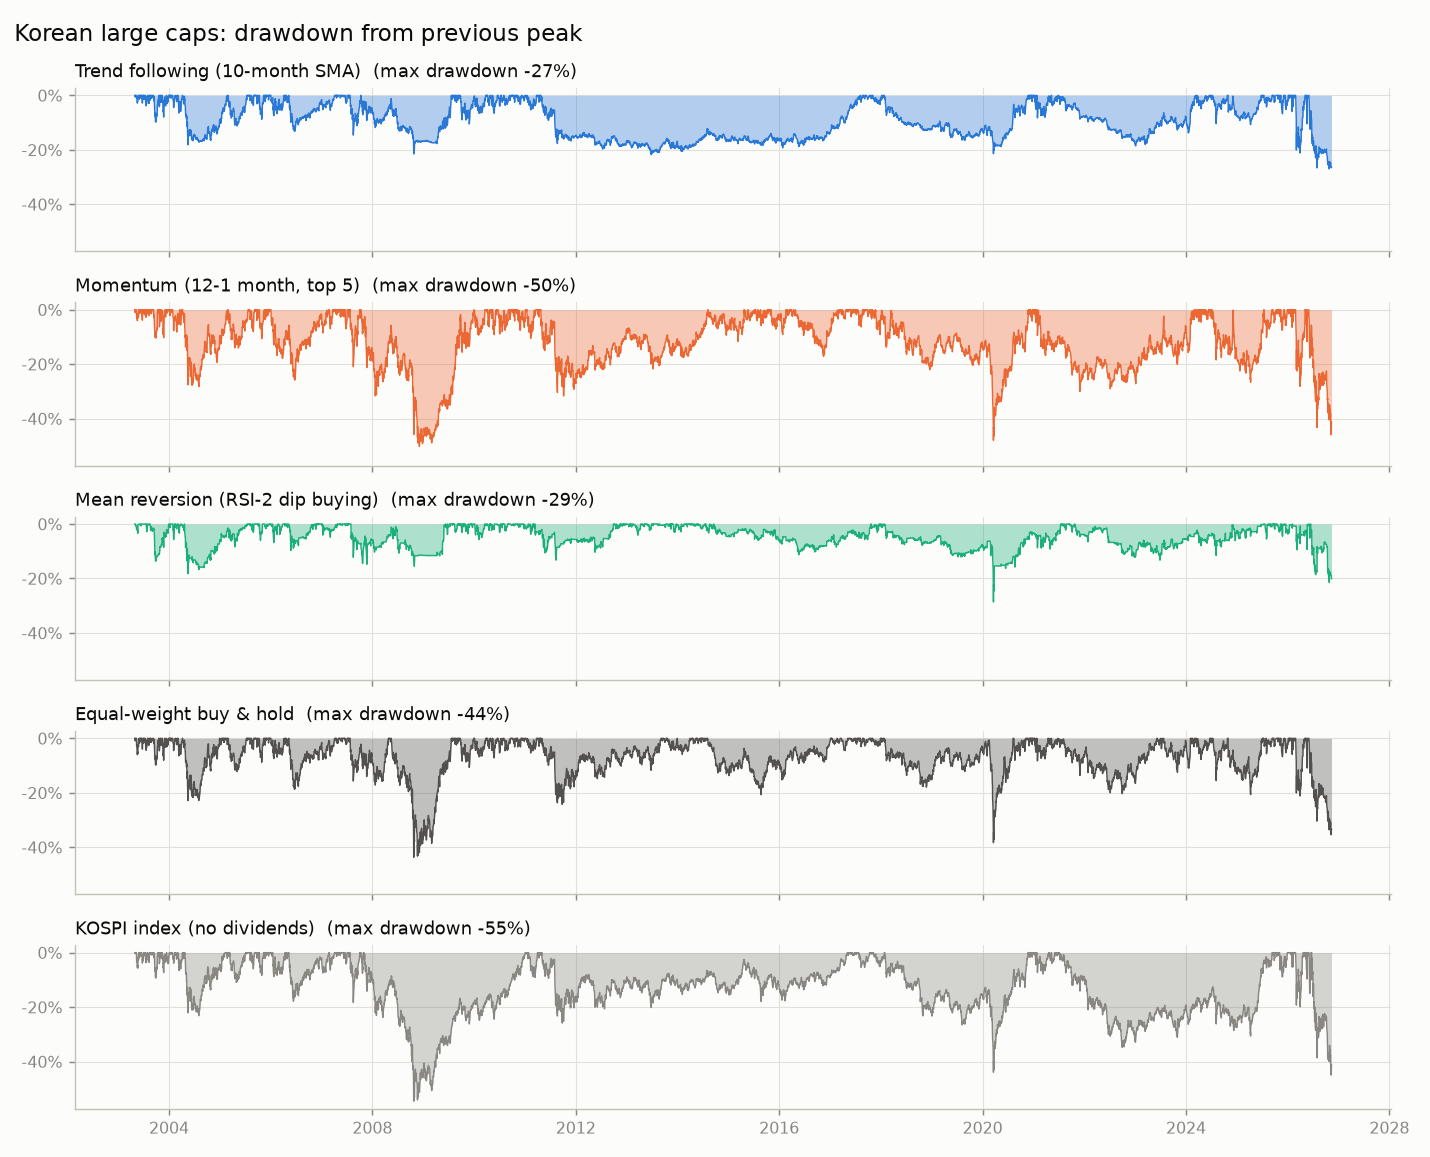
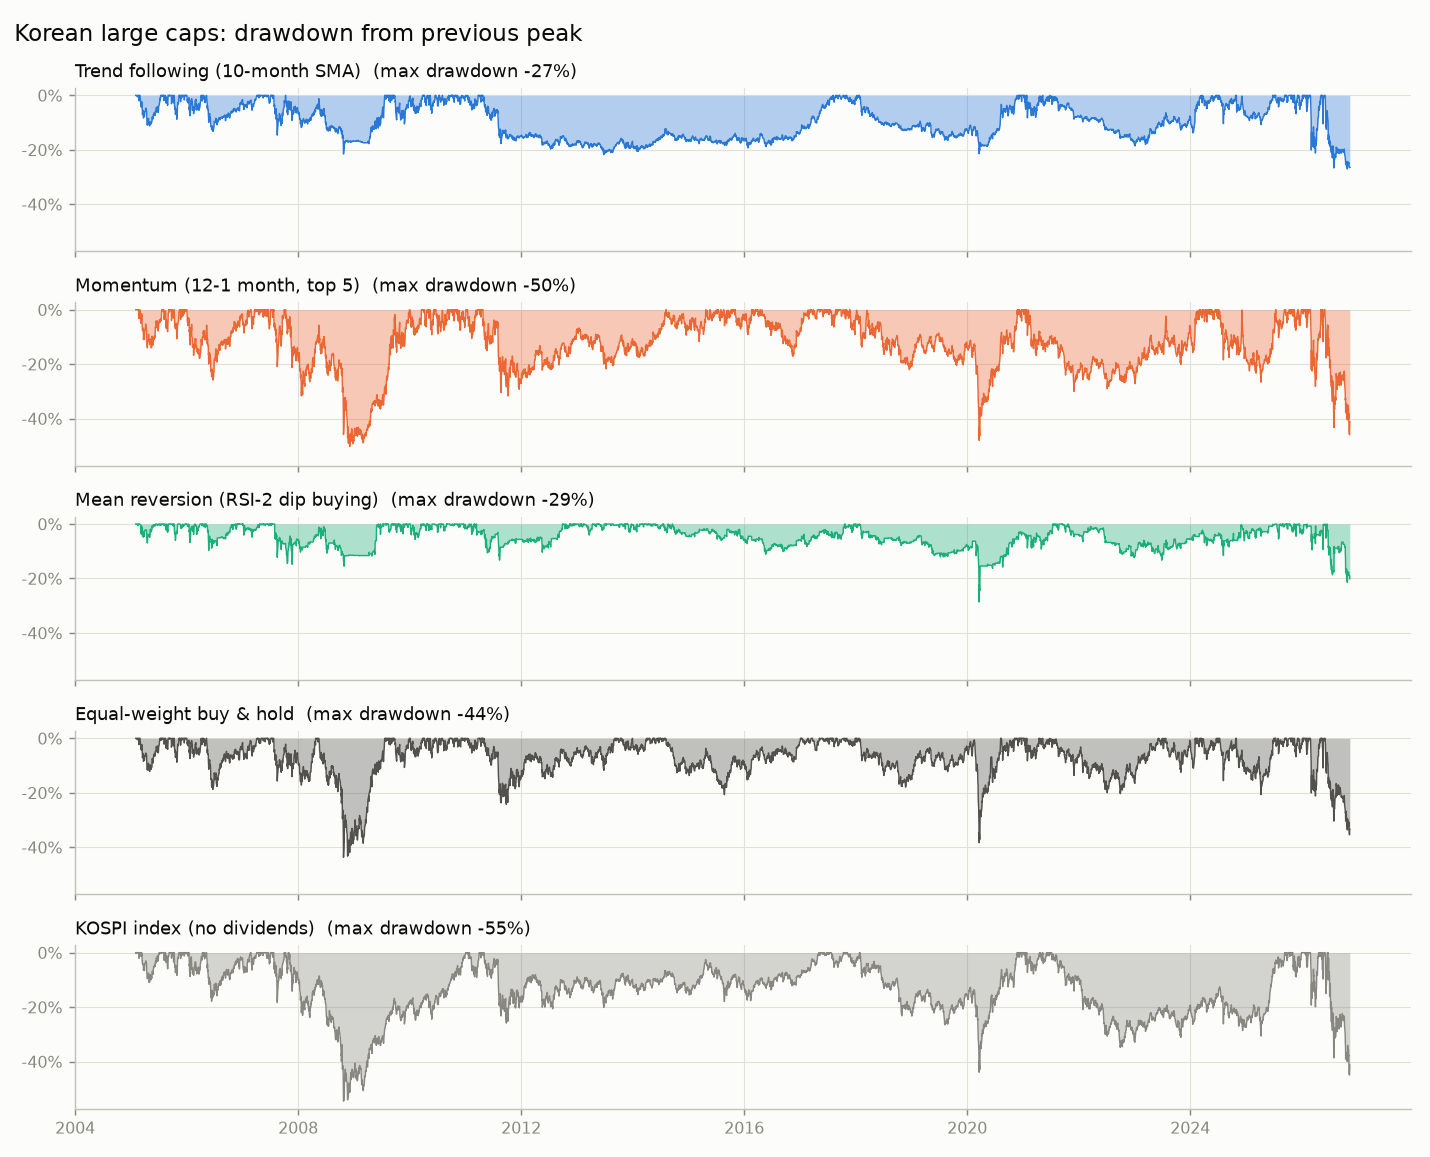
Update backtest results [skip ci]

diff --git a/results/kr_largecap/report.md b/results/kr_largecap/report.md
@@ -1,6 +1,6 @@
 # 백테스트 결과: 한국 대형주 15종 (KOSPI)
 
-- 평가 기간: 2003-05-01 ~ 2026-11-11 (23.5년)
+- 평가 기간: 2005-02-01 ~ 2026-11-11 (21.8년)
 - 대상 종목 15개: 005930.KS(삼성전자), 000660.KS(SK하이닉스), 005380.KS(현대차), 000270.KS(기아), 005490.KS(POSCO홀딩스), 051910.KS(LG화학), 006400.KS(삼성SDI), 012330.KS(현대모비스), 055550.KS(신한지주), 017670.KS(SK텔레콤), 033780.KS(KT&G), 015760.KS(한국전력), 066570.KS(LG전자), 000810.KS(삼성화재), 010130.KS(고려아연)
 - 거래 비용: 매수·매도 각각 15bp (0.15%)
 - 체결 가정: 종가로 신호 계산 → 다음 거래일 종가에 체결
@@ -9,22 +9,23 @@
 - **주의**: 이 15종목은 '오늘 기준으로 유명한 대형주'를 고른 것입니다. 과거에 컸다가 사라진 회사가 빠져 있으므로 모든 수익률이 실제보다 좋게 나옵니다(생존 편향). 전략끼리의 상대 비교용으로만 보세요.
 - **주의**: 비교용 KOSPI 지수에는 배당이 빠져 있어, 지수에 실제로 투자했을 때보다 수익률이 조금 낮게 표시됩니다.
 - **주의**: 거래 비용 15bp는 수수료와 매도 시 증권거래세를 매수·매도에 나눠 반영한 근사값입니다.
+- **주의**: 2004년 이전은 Yahoo의 SK하이닉스 수정주가에 0 이하 값이 섞여 있어 제외했습니다.
 
 ## 1. 요약
 
 | 지표 | 추세추종 | 모멘텀 | 평균회귀 | 동일비중 보유 | KOSPI 지수 (배당 제외) |
 |:---|---:|---:|---:|---:|---:|
-| 1원이 몇 원이 되었나 | 15.16원 | 56.88원 | 5.10원 | 42.44원 | 8.93원 |
-| 연평균 수익률 (CAGR) | 12.2% | 18.7% | 7.2% | 17.3% | 9.8% |
-| 연 변동성 | 14.7% | 28.1% | 12.9% | 21.7% | 22.5% |
-| 샤프 비율 | 0.87 | 0.76 | 0.61 | 0.85 | 0.53 |
+| 1원이 몇 원이 되었나 | 9.52원 | 30.83원 | 4.08원 | 21.98원 | 5.79원 |
+| 연평균 수익률 (CAGR) | 10.9% | 17.1% | 6.7% | 15.2% | 8.4% |
+| 연 변동성 | 14.3% | 28.0% | 12.6% | 21.5% | 22.5% |
+| 샤프 비율 | 0.81 | 0.71 | 0.58 | 0.78 | 0.48 |
 | 최대 낙폭 (MDD) | -27.0% | -50.2% | -28.6% | -43.7% | -54.5% |
-| CAGR ÷ MDD | 0.45 | 0.37 | 0.25 | 0.40 | 0.18 |
+| CAGR ÷ MDD | 0.40 | 0.34 | 0.23 | 0.35 | 0.15 |
 | 전고점 회복까지 최장 기간 | 6.2년 | 3.2년 | 3.6년 | 2.5년 | 5.9년 |
 | 최악의 해 수익률 | -12.2% | -38.9% | -10.5% | -27.3% | -40.7% |
-| 수익이 난 해의 비율 | 71% | 75% | 71% | 79% | 75% |
-| 평균 투자 비중 | 59% | 100% | 29% | 100% | 100% |
-| 연 회전율 (매수+매도) | 2.3배 | 5.1배 | 39.4배 | 0.7배 | 0.0배 |
+| 수익이 난 해의 비율 | 68% | 73% | 68% | 77% | 73% |
+| 평균 투자 비중 | 58% | 100% | 28% | 100% | 100% |
+| 연 회전율 (매수+매도) | 2.3배 | 4.9배 | 38.7배 | 0.7배 | 0.0배 |
 
 ![자산 곡선](equity.png)
 
@@ -34,9 +35,7 @@
 
 | 연도 | 추세추종 | 모멘텀 | 평균회귀 | 동일비중 보유 | KOSPI 지수 (배당 제외) |
 |:---|---:|---:|---:|---:|---:|
-| 2003 | 44.6% | 69.9% | 16.3% | 57.1% | 35.3% |
-| 2004 | 6.5% | 7.4% | 7.0% | 19.0% | 10.5% |
-| 2005 | 45.7% | 64.8% | 18.7% | 58.5% | 54.0% |
+| 2005 | 40.8% | 62.8% | 17.8% | 53.4% | 49.3% |
 | 2006 | 4.2% | 2.0% | 15.0% | 2.4% | 4.0% |
 | 2007 | 21.7% | 41.1% | 13.1% | 25.5% | 32.3% |
 | 2008 | -12.2% | -38.9% | -5.9% | -27.3% | -40.7% |
@@ -46,7 +45,7 @@
 | 2012 | -2.6% | 25.5% | 12.4% | 11.7% | 9.4% |
 | 2013 | 0.4% | -3.3% | 15.6% | 9.2% | 0.7% |
 | 2014 | -0.0% | 4.0% | 4.9% | -1.9% | -4.8% |
-| 2015 | 1.2% | 18.9% | -1.2% | 4.4% | 2.4% |
+| 2015 | 1.2% | 18.9% | -1.0% | 4.4% | 2.4% |
 | 2016 | 2.3% | -2.5% | -0.3% | 8.0% | 3.3% |
 | 2017 | 22.2% | 54.9% | 8.9% | 29.1% | 21.8% |
 | 2018 | -9.9% | -15.8% | -6.3% | -11.8% | -17.3% |
@@ -65,7 +64,7 @@
 
 | 기간 | 추세추종 | 모멘텀 | 평균회귀 | 동일비중 보유 | KOSPI 지수 (배당 제외) |
 |:---|---:|---:|---:|---:|---:|
-| 2003~2009 | 21.9% / -22% | 28.0% / -50% | 16.8% / -18% | 29.4% / -44% | 16.7% / -55% |
+| 2005~2009 | 19.1% / -22% | 23.4% / -50% | 17.9% / -15% | 24.1% / -44% | 13.0% / -55% |
 | 2010~2019 | 2.3% / -22% | 14.2% / -32% | 5.5% / -13% | 8.0% / -24% | 2.6% / -26% |
 | 2020~2026 | 18.6% / -27% | 17.2% / -46% | 0.9% / -24% | 20.3% / -38% | 14.0% / -45% |
 
@@ -73,12 +72,12 @@
 
 | 체결 시점, 비용 | 추세추종 | 모멘텀 | 평균회귀 |
 |:---|---:|---:|---:|
-| 다음 날 종가, 편도 0bp | 12.6% (0.90) | 19.6% (0.79) | 13.7% (1.07) |
-| 다음 날 종가, 편도 15bp | 12.2% (0.87) | 18.7% (0.76) | 7.2% (0.61) |
-| 다음 날 종가, 편도 45bp | 11.5% (0.83) | 16.9% (0.71) | -4.8% (-0.32) |
-| 당일 종가, 편도 0bp | 12.6% (0.89) | 18.6% (0.76) | 17.7% (1.32) |
-| 당일 종가, 편도 15bp | 12.2% (0.87) | 17.7% (0.73) | 11.0% (0.87) |
-| 당일 종가, 편도 45bp | 11.5% (0.82) | 15.9% (0.68) | -1.5% (-0.05) |
+| 다음 날 종가, 편도 0bp | 11.3% (0.83) | 17.9% (0.74) | 13.0% (1.05) |
+| 다음 날 종가, 편도 15bp | 10.9% (0.81) | 17.1% (0.71) | 6.7% (0.58) |
+| 다음 날 종가, 편도 45bp | 10.1% (0.76) | 15.3% (0.66) | -5.0% (-0.35) |
+| 당일 종가, 편도 0bp | 11.2% (0.83) | 16.9% (0.71) | 16.9% (1.30) |
+| 당일 종가, 편도 15bp | 10.8% (0.80) | 16.1% (0.68) | 10.3% (0.84) |
+| 당일 종가, 편도 45bp | 10.1% (0.75) | 14.4% (0.63) | -1.9% (-0.09) |
 
 ## 5. 가장 최근 목표 비중 (참고)
 
@@ -88,7 +87,5 @@
 
 ## 6. 데이터 점검
 
-- 공통 시작일 2002-04-24 (가장 늦게 시작하는 종목: 066570.KS)
-- 0 이하의 가격이 있는 종목: ['000660.KS']
-- 000660.KS: 하루 35% 초과 변동 1회 (2002-12-27)
+- 공통 시작일 2004-01-02 (가장 늦게 시작하는 종목: ^KS11)
 - 051910.KS: 하루 35% 초과 변동 1회 (2009-04-20)
